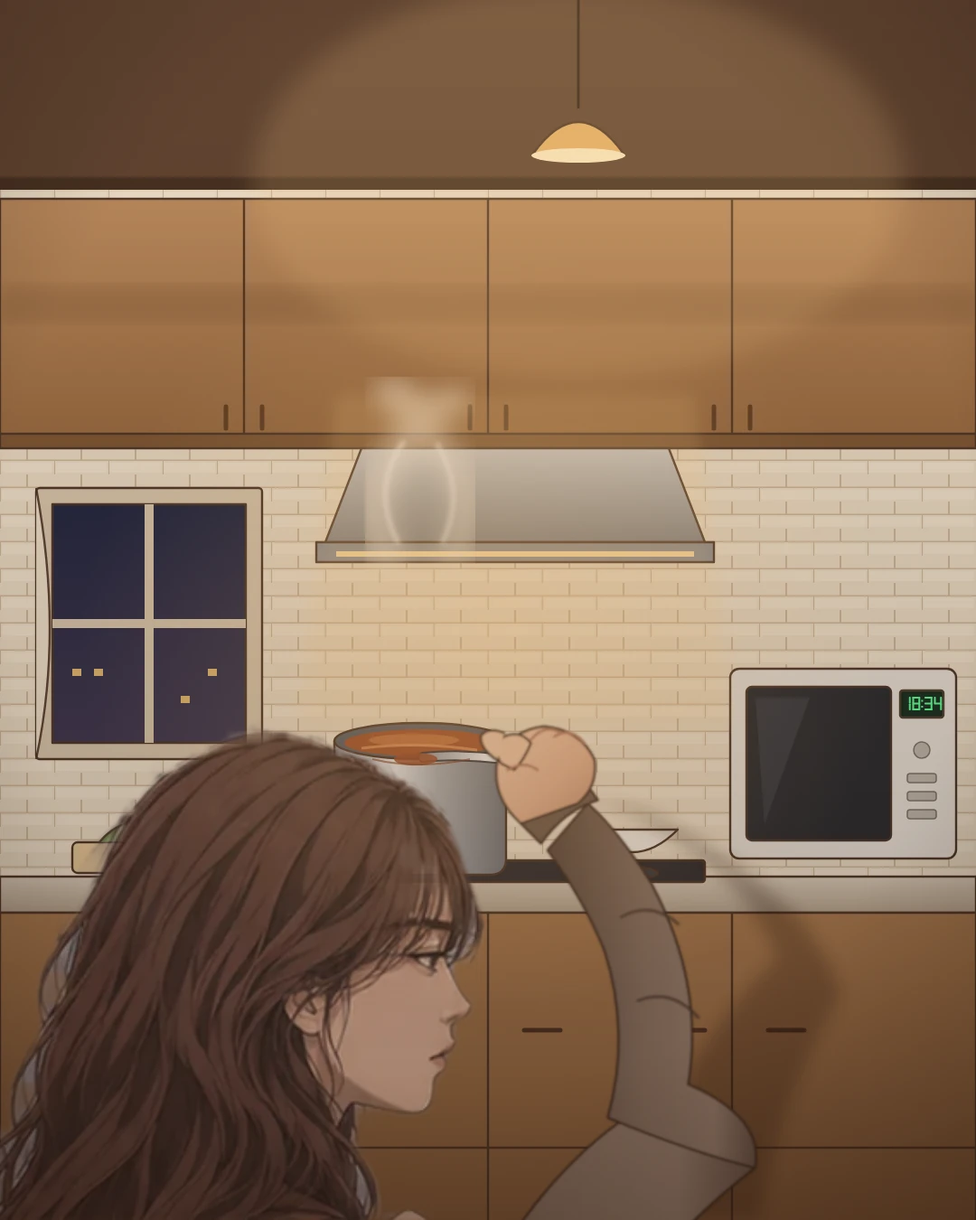
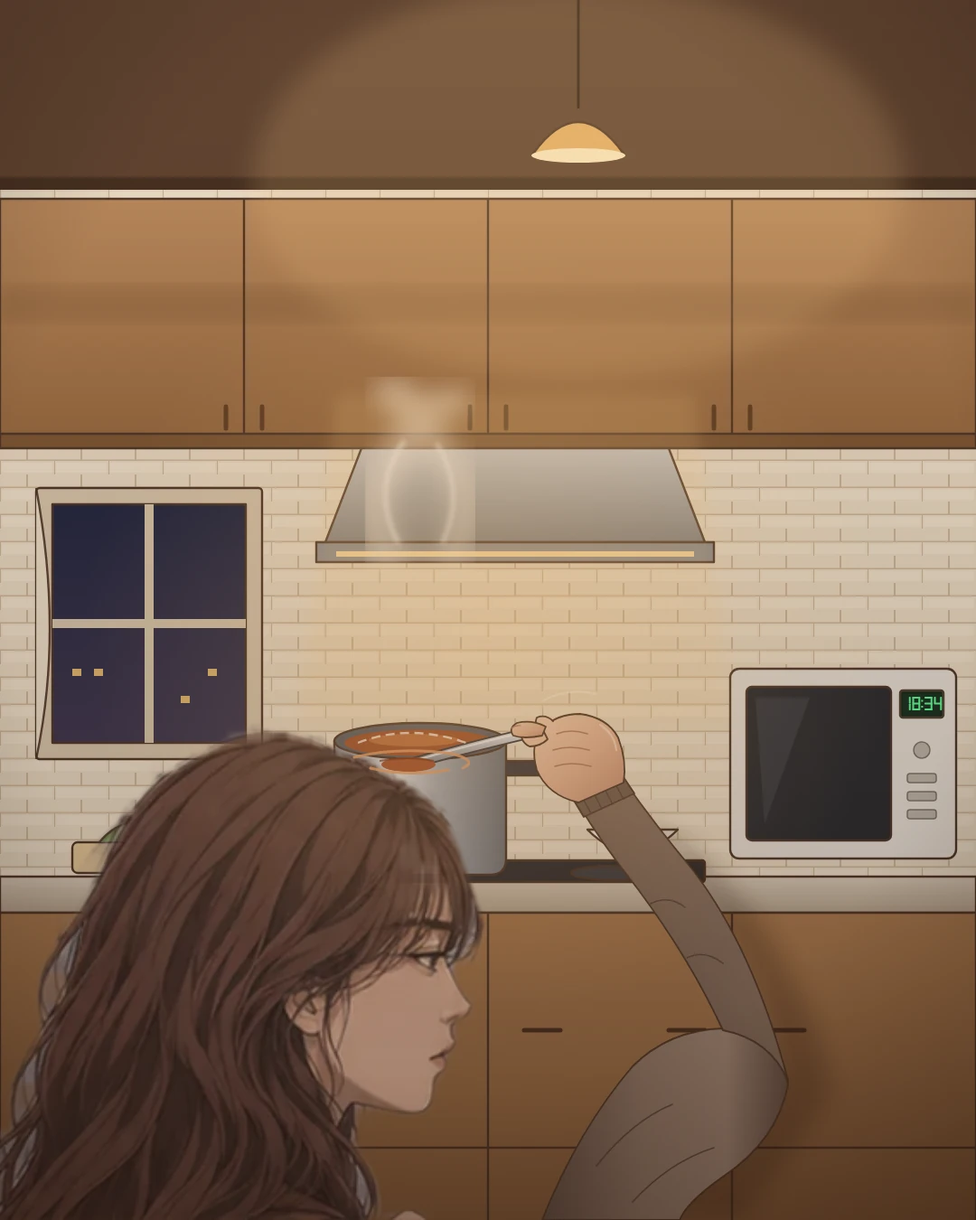
EP01 v3: 마지막 작화 보완 — 10 학생 25명·음악실 요소 제거, 17 질감, 87 몸 연결, 89 팔 재작화
- 10: 짝꿍·앞줄 추가로 학생 25명, 머리 모양·자세 다양화, 악기장→학급 문고, 악기 케이스 제거
- 17: 3/4 측면 시도 후 어울리지 않아 뒷모습 유지, 머리 질감·화이트보드 조명 개선
- 87: 상체·팔을 손 뒤 층으로, 담요 주름·눌린 그림자·밤 톤·질감
- 89: 굽힌 팔꿈치·원근 있는 팔·주먹 쥔 손, 국자가 국물 속, 젓는 결
- 104컷 QA·읽기 검수·70컷 회귀 통과, 상태 문서 갱신

Claude-Session: https://claude.ai/code/session_01GfvQ6zUbcBMZ1yaHVdYYvz

Changed region(s): [[0.3667, 0.5911, 0.7944, 1.0], [0.7944, 0.7467, 0.8556, 0.8089]]

diff --git a/data/ep01v3.js b/data/ep01v3.js
@@ -41,14 +41,14 @@ WEBTOON.registerEpisode({
     {"no": 7, "type": "black", "text": "이틀 전", "desc": "‘이틀 전’", "spacing": {"before": 0, "after": 320}, "mood": "void", "transition": "slow"},
[15 lines of base64/hex data omitted]
@@ -118,9 +118,9 @@ WEBTOON.registerEpisode({
[11 lines of base64/hex data omitted]

diff --git a/tools/art/scenes/cut089.html b/tools/art/scenes/cut089.html
@@ -79,32 +79,48 @@ svg{position:absolute;left:0;top:0}
 <img class="fig" src="parts/seungmin-back-080.png">
 <svg id="arm" width="1080" height="1350" style="position:absolute;left:0;top:0">
 <defs>
- <linearGradient id="slv" x1="0" x2="1"><stop offset="0" stop-color="#5c4a3f"/><stop offset=".45" stop-color="#8a7364"/><stop offset=".8" stop-color="#9c8474"/><stop offset="1" stop-color="#6a564a"/></linearGradient>
- <linearGradient id="skn" x1="0" x2="1" y1="0" y2="1"><stop offset="0" stop-color="#f0c9ae"/><stop offset=".6" stop-color="#e2b090"/><stop offset="1" stop-color="#c58f74"/></linearGradient>
- <linearGradient id="ldl" x1="0" x2="1"><stop offset="0" stop-color="#8d9197"/><stop offset=".5" stop-color="#eef0f2"/><stop offset="1" stop-color="#8d9197"/></linearGradient>
- <filter id="sft"><feGaussianBlur stdDeviation=".7"/></filter><filter id="shd"><feGaussianBlur stdDeviation="9"/></filter>
+ <linearGradient id="slvA" x1="0" x2="1" y1="0" y2="0"><stop offset="0" stop-color="#5a473d"/><stop offset=".4" stop-color="#8a7262"/><stop offset=".75" stop-color="#9d8473"/><stop offset="1" stop-color="#5e4a3f"/></linearGradient>
+ <linearGradient id="slvB" x1="0" x2="1" y1="1" y2="0"><stop offset="0" stop-color="#4e3d34"/><stop offset=".5" stop-color="#7d6657"/><stop offset="1" stop-color="#957d6c"/></linearGradient>
+ <linearGradient id="sknA" x1="0" x2="1" y1="0" y2="1"><stop offset="0" stop-color="#f3cfb4"/><stop offset=".55" stop-color="#e2b092"/><stop offset="1" stop-color="#c48d72"/></linearGradient>
+ <linearGradient id="ldlA" x1="0" x2="0" y1="0" y2="1"><stop offset="0" stop-color="#f2f3f5"/><stop offset=".5" stop-color="#b9bcc2"/><stop offset="1" stop-color="#7d8188"/></linearGradient>
+ <filter id="sftA"><feGaussianBlur stdDeviation=".6"/></filter><filter id="shdA"><feGaussianBlur stdDeviation="12"/></filter>
+ <filter id="grA"><feTurbulence type="fractalNoise" baseFrequency=".9" numOctaves="2" seed="5"/><feColorMatrix values="0 0 0 0 .45  0 0 0 0 .38  0 0 0 0 .33  0 0 0 .14 0"/><feComposite in2="SourceGraphic" operator="in"/></filter>
+ <clipPath id="armc"><path d="M600 1350 Q640 1250 700 1180 Q740 1140 800 1138 Q860 1150 872 1200 Q860 1262 800 1302 Q760 1330 752 1350 Z M800 1140 Q764 1062 706 984 Q668 936 640 890 L692 866 Q726 914 766 962 Q834 1050 872 1196 Z"/></clipPath>
 </defs>
-<!-- 국자: 손잡이 끝은 승민의 손, 머리는 냄비 안 국물 속 -->
-<path d="M468 838 Q530 832 606 848" stroke="#3a3a40" stroke-width="12" stroke-linecap="round" fill="none"/>
-<path d="M468 838 Q530 832 606 848" stroke="url(#ldl)" stroke-width="8" stroke-linecap="round" fill="none"/>
-<ellipse cx="460" cy="840" rx="24" ry="7" fill="#9c4a28" opacity=".85"/>
-<path d="M400 828 Q460 820 528 830" stroke="#e39a62" stroke-width="3" fill="none" opacity=".75"/><path d="M412 840 Q462 852 520 840" stroke="#7d3618" stroke-width="2" fill="none" opacity=".6"/>
-<!-- 팔 그림자(찬장·조리대에) -->
-<path d="M690 1350 Q760 1150 860 1060 Q820 950 650 880 L720 900 Q900 990 930 1100 Q860 1220 840 1350 Z" fill="#2a160c" opacity=".30" filter="url(#shd)"/>
-<g stroke="#3e2c24" stroke-width="1.4" stroke-linejoin="round" stroke-linecap="round" filter="url(#sft)" transform="translate(606 852) scale(1.85) translate(-606 -852)">
- <!-- 위팔: 어깨(머리 오른쪽 아래)에서 팔꿈치까지, 바깥으로 -->
- <path d="M500 1350 Q520 1210 600 1110 Q640 1060 690 1040 L730 1090 Q690 1120 660 1160 Q600 1250 590 1350 Z" fill="url(#slv)"/>
- <path d="M548 1240 Q574 1222 598 1236 M590 1160 Q618 1148 640 1166" fill="none" stroke="#4a3a31" stroke-width="2" opacity=".75"/>
- <!-- 아래팔: 팔꿈치에서 냄비 쪽으로 앞·위로 굽혀 들어감 -->
- <path d="M690 1040 Q700 980 668 920 Q648 888 630 872 L606 900 Q628 930 640 960 Q656 1010 642 1060 Q690 1080 730 1090 Q736 1060 690 1040 Z" fill="url(#slv)"/>
- <path d="M650 940 Q668 930 684 944 M660 990 Q680 982 696 1000" fill="none" stroke="#4a3a31" stroke-width="2" opacity=".75"/>
- <path d="M602 896 Q616 876 636 870 L626 856 Q604 864 590 884 Z" fill="#6f5b4e"/>
- <!-- 손: 국자 손잡이를 감아 쥔 주먹, 손등이 보이고 엄지는 손잡이 위 -->
- <path d="M590 884 Q572 868 576 846 Q584 828 604 826 Q626 828 634 846 Q636 862 624 872 Z" fill="url(#skn)"/>
- <path d="M578 848 Q572 838 580 832 Q590 828 596 836 Q592 846 586 852 Z" fill="#edc4a7"/>
- <path d="M596 834 Q604 824 614 830 M610 832 Q620 826 628 836 M582 852 Q592 846 600 852" fill="none" stroke="#b07a62" stroke-width="1.6"/>
- <path d="M576 846 Q566 840 566 832 Q570 826 580 830" fill="#eec7aa"/>
+<!-- 국자: 냄비 안 국물에 잠긴 머리 → 냄비 가장자리를 넘어 → 손 안의 손잡이 -->
+<path d="M452 846 Q520 826 608 806" stroke="#3a3a40" stroke-width="13" stroke-linecap="round" fill="none"/>
+<path d="M452 846 Q520 826 608 806" stroke="url(#ldlA)" stroke-width="9" stroke-linecap="round" fill="none"/>
+<path d="M454 843 Q520 824 606 804" stroke="#ffffff" stroke-width="2" opacity=".7" fill="none"/>
+<!-- 국자가 잠긴 자리: 국물 표면이 덮고, 젓는 결이 국자 둘레로 돎 -->
+<ellipse cx="452" cy="846" rx="30" ry="8" fill="#a8542e"/>
+<path d="M392 838 Q440 826 500 834 Q530 842 512 850 M410 850 Q452 860 496 852" stroke="#e9a06a" stroke-width="3" fill="none" opacity=".85" stroke-linecap="round"/>
+<path d="M420 842 Q452 836 480 842" stroke="#6e2d14" stroke-width="2" fill="none" opacity=".7"/>
+<!-- 팔 그림자 -->
+<path d="M680 1350 Q760 1200 860 1180 Q840 1060 700 900 L760 930 Q900 1060 920 1210 Q860 1300 820 1350 Z" fill="#2a160c" opacity=".28" filter="url(#shdA)"/>
+<g stroke="#4a3428" stroke-width="1.8" stroke-linejoin="round" stroke-linecap="round" filter="url(#sftA)">
+ <!-- 위팔(카메라 가까이, 어깨에서 팔꿈치로) -->
+ <path d="M600 1350 Q640 1250 700 1180 Q740 1140 800 1138 Q860 1150 872 1200 Q860 1262 800 1302 Q760 1330 752 1350 Z" fill="url(#slvA)"/>
+ <path d="M660 1290 Q700 1240 744 1222 M700 1330 Q740 1286 790 1270" fill="none" stroke="#45362e" stroke-width="1.6" opacity=".8"/>
+ <!-- 아래팔(팔꿈치에서 냄비 쪽으로 위·왼쪽, 원근으로 손목 쪽이 가늘어짐) -->
+ <path d="M800 1140 Q764 1062 706 984 Q668 936 640 890 L692 866 Q726 914 766 962 Q834 1050 872 1196 Q852 1150 800 1140 Z" fill="url(#slvB)"/>
+ <path d="M760 1060 Q780 1050 800 1066 M720 1000 Q740 990 758 1004" fill="none" stroke="#45362e" stroke-width="1.5" opacity=".8"/>
+ <!-- 니트 소맷부리(골지) -->
+ <path d="M634 884 L690 860 L702 878 L646 904 Z" fill="#6c574a"/>
+ <path d="M644 882 L654 900 M656 876 L666 895 M668 871 L678 890 M680 866 L690 884" stroke="#4a3a31" stroke-width="1.4"/>
+ <!-- 손: 국자 손잡이를 위에서 감아 쥔 주먹(손등이 카메라 쪽), 엄지는 손잡이 위로 냄비 쪽을 향함 -->
+ <path d="M640 888 Q606 880 594 852 Q586 824 600 806 Q616 790 642 790 Q672 794 684 816 Q694 842 690 866 Z" fill="url(#sknA)"/>
+ <path d="M600 806 Q584 800 578 808 Q574 820 586 826 Q598 826 606 818 Z" fill="#ecc3a5"/>
+ <path d="M612 798 Q604 790 594 794 Q590 804 598 810" fill="#f0c9ad"/>
+ <path d="M616 812 Q632 806 650 812 M612 830 Q630 824 652 830 M614 848 Q632 842 654 848" fill="none" stroke="#b07a62" stroke-width="1.5"/>
+ <path d="M664 802 Q680 812 682 830" fill="none" stroke="#f8dcc6" stroke-width="2.2" opacity=".8"/>
+ <!-- 엄지: 손잡이 위로 뻗음 -->
+ <path d="M604 804 Q588 796 572 800 Q562 806 568 814 Q580 818 600 814 Z" fill="url(#sknA)"/>
+ <path d="M566 806 Q570 802 576 803" fill="none" stroke="#b07a62" stroke-width="1.2"/>
 </g>
+<!-- 젓는 동작 선(국자 둘레의 원호) -->
+<path d="M396 822 Q452 800 516 822" stroke="#fff3e2" stroke-width="2.4" fill="none" opacity=".8" stroke-dasharray="10 6"/>
+<path d="M600 776 Q628 760 660 768" stroke="#fff3e2" stroke-width="2" fill="none" opacity=".6"/>
+<rect x="560" y="760" width="330" height="590" filter="url(#grA)" clip-path="url(#armc)"/>
 </svg>
 
 <div class="warm"></div>

diff --git a/tools/art/scenes/cut087.html b/tools/art/scenes/cut087.html
@@ -7,32 +7,53 @@ svg{position:absolute;left:0;top:0}
 </style></head><body><div class="cv">
 <img class="bg" src="parts/livingroom-night.png">
 <svg id="back" width="1080" height="608"></svg>
+<svg id="torso" width="1080" height="608"></svg>
 <img class="head" src="parts/seungmin-085-sofa.png">
-<svg id="front" width="1080" height="608"></svg>
+<svg id="front" width="1080" height="608" style="filter:brightness(.74) saturate(.9)"></svg>
 <div class="night"></div>
 </div><script>
 const L='#2e2328';
 document.getElementById('back').innerHTML = `<defs><filter id="s"><feGaussianBlur stdDeviation="10"/></filter></defs>
 <path d="M300 380 Q600 360 990 372 L990 420 Q600 410 300 430Z" fill="#000" opacity=".35" filter="url(#s)"/>
 <path d="M188 300 Q240 262 330 270 Q400 280 418 330 Q420 380 380 404 Q300 418 220 404 Q180 380 188 300 Z" fill="#3d3337" stroke="#2e2328" stroke-width="2"/>
-<path d="M210 306 Q280 286 380 300" stroke="#5a4c50" stroke-width="3" fill="none"/>
-<g stroke="#2e2328" stroke-width="1.8" stroke-linejoin="round"><path d="M396 318 Q440 300 500 312 Q540 330 548 372 Q540 404 500 410 L420 410 Q392 380 396 318 Z" fill="#6a5448"/>
-<path d="M420 330 Q460 322 500 334" fill="none" stroke="#86705f" stroke-width="2.4"/></g>`;
+<path d="M210 306 Q280 286 380 300" stroke="#5a4c50" stroke-width="3" fill="none"/>`;
+// 몸: 원화(85컷) 머리·손과 질감 차이를 줄이려고 셀 채색처럼 2단 그림자 + 스탠드 쪽(왼쪽) 따뜻한 림라이트 + 종이 질감, 가는 갈색 선.
 document.getElementById('front').innerHTML = `<defs>
-<linearGradient id="bl" x1="0" x2="0" y1="0" y2="1"><stop offset="0" stop-color="#9592a4"/><stop offset=".55" stop-color="#6e6c80"/><stop offset="1" stop-color="#47455a"/></linearGradient>
-<linearGradient id="pl" x1="0" x2="0" y1="0" y2="1"><stop offset="0" stop-color="#4a3f44"/><stop offset="1" stop-color="#2c2428"/></linearGradient>
-<filter id="sf"><feGaussianBlur stdDeviation=".7"/></filter><filter id="sh"><feGaussianBlur stdDeviation="6"/></filter></defs>
-<g stroke="${L}" stroke-width="1.8" stroke-linejoin="round" stroke-linecap="round" filter="url(#sf)">
- <g transform="translate(0 34)">
- <!-- 담요: 가슴 아래부터 발끝까지 — 허리·무릎(살짝 굽힘)의 볼륨, 소파 앞으로 늘어진 자락 -->
- <path d="M470 340 Q520 316 600 322 Q690 318 760 330 Q820 300 880 306 Q950 312 978 340 Q992 368 970 392 Q930 404 880 400 L700 410 Q600 418 520 414 Q470 400 470 340 Z" fill="url(#bl)"/>
- <path d="M600 410 Q640 470 700 480 Q760 486 800 470 Q820 440 812 404 Z" fill="#5e5c70"/>
- <path d="M640 416 Q660 452 700 466 M740 414 Q760 444 790 456" fill="none" stroke="#3e3c4e" stroke-width="2"/>
- <path d="M560 340 Q640 352 700 336 M770 318 Q820 330 860 312 M880 316 Q920 334 960 338" fill="none" stroke="#b2afc0" stroke-width="2" opacity=".7"/>
- <path d="M640 334 Q660 372 640 410 M840 312 Q860 350 846 400" fill="none" stroke="#4a4858" stroke-width="2" opacity=".7"/>
+ <linearGradient id="kn" x1="0" x2="0" y1="0" y2="1"><stop offset="0" stop-color="#8a6e5e"/><stop offset=".55" stop-color="#6a5246"/><stop offset="1" stop-color="#4a3830"/></linearGradient>
+ <linearGradient id="bl" x1="0" x2="0" y1="0" y2="1"><stop offset="0" stop-color="#a39fae"/><stop offset=".45" stop-color="#7d7a8c"/><stop offset="1" stop-color="#55526a"/></linearGradient>
+ <linearGradient id="bl2" x1="0" x2="0" y1="0" y2="1"><stop offset="0" stop-color="#6c6a7e"/><stop offset="1" stop-color="#3e3c52"/></linearGradient>
+ <linearGradient id="warm" x1="0" x2="1"><stop offset="0" stop-color="#ffc98a" stop-opacity=".45"/><stop offset=".5" stop-color="#ffc98a" stop-opacity=".12"/><stop offset="1" stop-color="#ffc98a" stop-opacity="0"/></linearGradient>
+ <filter id="sf"><feGaussianBlur stdDeviation=".7"/></filter><filter id="sh"><feGaussianBlur stdDeviation="7"/></filter><filter id="sh2"><feGaussianBlur stdDeviation="3"/></filter>
+ <filter id="grain"><feTurbulence type="fractalNoise" baseFrequency=".85" numOctaves="2" seed="7"/><feColorMatrix values="0 0 0 0 .5  0 0 0 0 .45  0 0 0 0 .45  0 0 0 .16 0"/><feComposite in2="SourceGraphic" operator="in"/></filter>
+ <clipPath id="body"><path id="bp" d="M430 330 Q470 312 540 322 Q610 330 650 334 Q690 312 740 318 Q790 330 820 330 Q850 300 900 306 Q950 316 972 338 Q984 362 966 384 Q930 400 880 404 L640 412 Q540 414 470 410 Q430 392 430 330 Z"/></clipPath>
+</defs>
+<!-- 소파에 눌린 자국: 몸 아래 그림자와 쿠션 주름 -->
+<path d="M440 414 Q700 426 980 404" stroke="#120c0e" stroke-width="16" opacity=".45" filter="url(#sh)" fill="none"/>
+<path d="M520 420 Q560 412 600 422 M760 418 Q800 410 840 420" stroke="#2a2024" stroke-width="2" fill="none" opacity=".6"/>
+<g stroke="#2e2328" stroke-width="1.5" stroke-linejoin="round" stroke-linecap="round" filter="url(#sf)">
+ <!-- 담요: 허리부터 발끝까지, 엉덩이·무릎의 굴곡, 앞으로 흘러내린 자락 -->
+ <path d="M600 334 Q650 318 720 320 Q780 328 816 334 Q852 312 904 314 Q954 320 974 340 Q986 366 966 386 Q930 402 880 406 L640 414 Q604 410 590 380 Q584 352 600 334 Z" fill="url(#bl)"/>
+ <path d="M640 410 L648 452 Q700 446 744 458 Q796 448 852 456 L858 404 Z" fill="url(#bl2)"/>
+ <path d="M690 412 L696 448 M744 410 L744 456 M800 410 L798 452" fill="none" stroke="#2e2c40" stroke-width="1.6"/>
+ <path d="M640 330 Q660 368 646 404 M720 318 Q742 360 724 406 M836 312 Q846 350 830 402 M900 308 Q912 350 898 400" fill="none" stroke="#4a4860" stroke-width="1.6" opacity=".85"/>
+ <path d="M616 340 Q680 326 760 330 M840 314 Q900 310 950 330" fill="none" stroke="#c3c0cf" stroke-width="2" opacity=".75"/>
  <!-- 발(양말) -->
- <path d="M962 330 Q994 316 1008 332 Q1012 354 990 362 Q970 356 962 330 Z" fill="#d8d3cc"/>
- </g>
+ <path d="M962 334 Q990 322 1006 336 Q1010 358 990 366 Q972 360 962 334 Z" fill="#d6d0c8"/>
+ <path d="M970 344 Q988 340 1000 350" fill="none" stroke="#a9a29a" stroke-width="1.2"/>
 </g>
-<path d="M480 446 Q700 454 980 434" stroke="#000" stroke-width="10" opacity=".25" filter="url(#sh)" fill="none"/>`;
+<!-- 스탠드 쪽 따뜻한 림라이트 + 종이 질감 -->
+<path d="M602 333 Q650 318 720 320 Q780 328 816 334 Q852 312 904 314" fill="none" stroke="#ffd6a0" stroke-width="2.4" opacity=".55" filter="url(#sf)"/>
+
+<rect x="400" y="280" width="620" height="220" filter="url(#grain)" clip-path="url(#body)"/>`;
+document.getElementById('torso').innerHTML = `<g stroke="#2e2328" stroke-width="1.5" stroke-linejoin="round" stroke-linecap="round" style="filter:brightness(.74) saturate(.9)">
+ <defs><linearGradient id="kn2" x1="0" x2="0" y1="0" y2="1"><stop offset="0" stop-color="#8a6e5e"/><stop offset=".55" stop-color="#6a5246"/><stop offset="1" stop-color="#4a3830"/></linearGradient></defs>
+`+` <!-- 니트 상체(어깨·가슴) — 머리 아래에서 이어짐 -->
+ <path d="M420 300 Q470 296 520 312 Q590 326 660 336 L660 404 Q560 412 470 410 Q428 392 420 300 Z" fill="url(#kn2)"/>
+ <path d="M470 330 Q520 338 560 334 M480 360 Q540 370 600 362" fill="none" stroke="#3e2e28" stroke-width="1.4" opacity=".8"/>
+<!-- 위팔: 어깨에서 폰 든 손(원화)까지 — 니트 소매 -->
+<g stroke="#2e2328" stroke-width="1.5" stroke-linejoin="round" filter="url(#sf)">
+ <path d="M452 304 Q500 318 512 352 Q516 384 488 398 Q462 400 450 384 Q470 366 466 346 Q458 326 440 318 Z" fill="url(#kn2)"/>
+ <path d="M462 392 Q470 380 486 382" fill="none" stroke="#3e2e28" stroke-width="1.2"/>
+</g>
+</g>`;
 </script></body></html>

diff --git a/tools/art/scenes/cut010.html b/tools/art/scenes/cut010.html
@@ -17,6 +17,16 @@ svg{position:absolute;left:0;top:0}
  <path d="M20 292h56M20 302h48M20 312h52" stroke="#a89a86" stroke-width="1.5"/>
  <circle cx="31" cy="224" r="3" fill="#c0392b"/><circle cx="69" cy="228" r="3" fill="#2f6fb0"/><circle cx="50" cy="284" r="3" fill="#2a8a4a"/>
  <rect x="-4" y="410" width="104" height="10" fill="#8a6a46"/></g></svg>
+<svg width="1080" height="810" style="position:absolute;left:0;top:0">
+ <defs><linearGradient id="wl" x1="0" x2="0" y1="0" y2="1"><stop offset="0" stop-color="#94705f"/><stop offset="1" stop-color="#a27662"/></linearGradient></defs>
+ <rect x="784" y="40" width="296" height="98" fill="url(#wl)"/><rect x="784" y="40" width="296" height="98" fill="url(#wl)" filter="none"/>
+ <g stroke="#5a4232" stroke-width="2">
+  <rect x="770" y="140" width="130" height="190" fill="#b38b62"/><rect x="920" y="140" width="160" height="190" fill="#b38b62"/>
+  <path d="M770 202h130M770 266h130M920 202h160M920 266h160" stroke-width="5"/>
+ </g>
+ <g id="books"></g>
+ <g stroke="#4a3428" stroke-width="2"><rect x="930" y="66" width="120" height="58" fill="#f4efe4"/><path d="M944 80h90M944 92h76M944 104h86" stroke="#b8ad9c"/><circle cx="990" cy="68" r="3" fill="#c0392b"/></g>
+</svg>
 <div id="seats"></div>
 <img class="t" src="parts/seungmin-012-upper.png">
 <svg id="front" width="1080" height="810"></svg>
@@ -35,23 +45,49 @@ document.getElementById('front').innerHTML = `<g stroke="#3a2a22" stroke-width="
  <path d="M600 362 L690 360 L694 372 L598 374 Z" fill="#f1ece2"/><path d="M608 365h70M608 369h52" stroke="#b9b1a4" stroke-width="1.3"/>
 </g>`;
 // 의자 등받이(배경 그림에서 잰 바깥 테두리): [x0, x1, top, 학생 옵션] — 먼 자리부터 그려 가까운 학생이 앞 의자를 가린다
+// [x0, x1, top, 학생 옵션, 짝꿍(같은 책상 옆자리: 'L'|'R', 옵션)] — 먼 자리부터. 짝꿍 의자는 같은 의자 그림을 옆으로 옮겨 다시 쓴다.
+const H = ['#2a2120','#33261f','#231b1a','#3a2b24','#2e2422','#1d1716'];
 const chairs = [
-  [470, 575, 421, {pose:'write'}], [839, 952, 424, {girl:1, tail:1, pose:'listen'}], [90, 186, 418, {girl:1, pose:'turn'}],
-  [426, 552, 450, {pose:'hand'}], [868, 1003, 458, {pose:'turn'}], [0, 108, 441, {pose:'write'}],
-  [374, 522, 489, {girl:1, tail:1, hair:'#3a2a24', pose:'listen'}], [902, 1062, 500, {girl:1, pose:'write', hair:'#2e2422'}],
-  [305, 487, 554, {pose:'cheek'}], [952, 1092, 580, {pose:'listen', tilt:3}],
-  [185, 445, 676, {pose:'cheek', tilt:-6}],
+  [90, 186, 418, {girl:1, hs:'long', pose:'turn', hair:H[1]}, ['R', {hs:'short', pose:'write', part:.05}]],
+  [470, 575, 421, {pose:'write', hs:'short', part:-.06}, ['L', {girl:1, hs:'bob', pose:'look', hair:H[3]}]],
+  [839, 952, 424, {girl:1, tail:1, pose:'listen'}, ['R', {hs:'buzz', pose:'cheek'}]],
+  [0, 108, 441, {pose:'write', hs:'short'}, ['R', {girl:1, hs:'bob', pose:'listen', hair:H[0]}]],
+  [426, 552, 450, {pose:'hand', hs:'short', hair:H[2]}, ['L', {girl:1, hs:'pony', pose:'write', hair:H[4]}]],
+  [868, 1003, 458, {pose:'turn', hs:'short', part:.04}, ['R', {girl:1, hs:'long', pose:'look', hair:H[5]}]],
+  [374, 522, 489, {girl:1, tail:1, hair:'#3a2a24', pose:'listen'}, ['L', {hs:'buzz', pose:'write'}]],
+  [902, 1062, 500, {girl:1, pose:'write', hair:'#2e2422'}, ['L', {hs:'short', pose:'look', part:-.05}]],
+  [305, 487, 554, {pose:'cheek'}, ['R', {girl:1, hs:'bob', pose:'write', hair:H[1]}]],
+  [952, 1092, 580, {pose:'listen', tilt:3, hs:'short'}, ['L', {girl:1, hs:'pony', pose:'look', hair:H[5]}]],
+  [185, 445, 676, {pose:'cheek', tilt:-6}, null],
 ];
 const box = document.getElementById('seats');
-chairs.forEach(([x0, x1, top, o]) => {
+{ // 학급 문고: 책등(색·높이 제각각)
+  let bk = '', sd = 3; const R = () => (sd = (sd * 16807) % 2147483647) / 2147483647;
+  [[774, 896, 146, 200], [774, 896, 208, 264], [774, 896, 272, 328], [924, 1076, 146, 200], [924, 1076, 208, 264], [924, 1076, 272, 328]].forEach(([x0, x1, y0, y1]) => {
+    let x = x0 + 2; while (x < x1 - 6) { const w = 7 + R() * 9, hh = (y1 - y0) * (.7 + R() * .28), c = ['#7a3b2e','#2f4f6f','#c9a24a','#4e6b3a','#8a8a8a','#b45c3c','#e8dcc4'][Math.floor(R() * 7)];
+      bk += `<rect x="${x.toFixed(1)}" y="${(y1 - hh).toFixed(1)}" width="${w.toFixed(1)}" height="${hh.toFixed(1)}" fill="${c}" stroke="#3a2a22" stroke-width="1"/>`; x += w + .8; } });
+  document.getElementById('books').innerHTML = bk;
+}
+function seat(x0, x1, top, o, srcX0) {   // srcX0: 의자 그림을 가져올 원래 위치(짝꿍이면 이웃 의자)
   const w = x1 - x0;
   if (o) box.insertAdjacentHTML('beforeend', `<svg width="1080" height="810">${student((x0 + x1) / 2, top + w * .02, w * .84, o)}</svg>`);
-  const r = w * .16, y1 = top + w * .62, pts = [];
-  for (let k = 0; k <= 8; k++) { const a = Math.PI + k * Math.PI / 16; pts.push([x0 + r + Math.cos(a) * r, top + r + Math.sin(a) * r]); }
-  for (let k = 0; k <= 8; k++) { const a = 1.5 * Math.PI + k * Math.PI / 16; pts.push([x1 - r + Math.cos(a) * r, top + r + Math.sin(a) * r]); }
-  pts.push([x1, y1], [x0, y1]);
+  const sx = srcX0 == null ? x0 : srcX0, r = w * .16, y1 = top + w * .62, pts = [];
+  for (let k = 0; k <= 8; k++) { const a = Math.PI + k * Math.PI / 16; pts.push([sx + r + Math.cos(a) * r, top + r + Math.sin(a) * r]); }
+  for (let k = 0; k <= 8; k++) { const a = 1.5 * Math.PI + k * Math.PI / 16; pts.push([sx + w - r + Math.cos(a) * r, top + r + Math.sin(a) * r]); }
+  pts.push([sx + w, y1], [sx, y1]);
   const im = document.createElement('img'); im.className = 'ov'; im.src = 'parts/classroom-afternoon.png';
   im.style.clipPath = 'polygon(' + pts.map(p => p[0].toFixed(1) + 'px ' + p[1].toFixed(1) + 'px').join(',') + ')';
+  if (srcX0 != null) im.style.transform = `translateX(${(x0 - sx).toFixed(1)}px)`;
   box.appendChild(im);
+}
+let n = 0;
+chairs.forEach(([x0, x1, top, o, mate]) => {
+  const w = x1 - x0;
+  if (mate) { const dx = (mate[0] === 'L' ? -1 : 1) * w * 1.02; seat(x0 + dx, x1 + dx, top, mate[1], x0); n++; }
+  seat(x0, x1, top, o); if (o) n++;
 });
+// 맨 앞(카메라 쪽) 학생 머리·어깨 — 화면 아래로 잘린 뒷모습, 원근으로 크게
+const near = [[60, 846, 250, {hs:'short', pose:'listen', hair:H[0], tilt:-3}], [640, 858, 230, {girl:1, hs:'bob', pose:'look', hair:H[3]}], [900, 852, 220, {hs:'buzz', pose:'listen', tilt:4}], [350, 880, 210, {girl:1, hs:'pony', pose:'write', hair:H[2]}]];
+near.forEach(([cx, top, w, o]) => { box.insertAdjacentHTML('beforeend', `<svg width="1080" height="810" style="filter:blur(1.2px)">${student(cx, top, w, o)}</svg>`); n++; });
+document.title = 'students ' + n;
 </script></body></html>

diff --git a/tools/art/scenes/cut017.html b/tools/art/scenes/cut017.html
@@ -2,13 +2,13 @@
 html,body{margin:0}.cv{position:relative;width:1080px;height:810px;overflow:hidden}
 .bg{position:absolute;inset:0;width:1080px;height:810px}
 svg{position:absolute;left:0;top:0}
-.board{position:absolute;left:250px;top:60px;width:640px;height:370px;box-sizing:border-box;border-radius:5px;background:linear-gradient(160deg,#fbfcfd,#eceff2);border:12px solid #b9bec4;box-shadow:0 8px 20px rgba(40,30,20,.3),inset 0 0 0 2px #8e949b;transform:rotate(-1deg)}
+.board{position:absolute;left:250px;top:60px;width:640px;height:370px;box-sizing:border-box;border-radius:5px;background:linear-gradient(160deg,#fbfcfd,#eceff2);border:12px solid #b9bec4;box-shadow:0 8px 20px rgba(40,30,20,.3),inset 0 0 0 2px #8e949b;transform:rotate(-1deg);overflow:hidden}
 .t{position:absolute;font-family:"Nanum Pen Script";line-height:1;white-space:nowrap}
 .fg{position:absolute;left:-150px;top:470px;width:620px;filter:blur(1.6px) brightness(.8)}
 .warm{position:absolute;inset:0;background:linear-gradient(100deg,rgba(255,214,150,.22),rgba(255,214,150,0) 50%)}
 </style></head><body><div class="cv">
 <img class="bg" src="parts/staffroom-blur.png">
-<div class="board">
+<div class="board"><div style="position:absolute;inset:0;background:linear-gradient(170deg,rgba(255,255,255,.0) 0%,rgba(255,255,255,.55) 8%,rgba(255,255,255,0) 18%),radial-gradient(ellipse 40% 20% at 70% 85%,rgba(140,150,170,.10),rgba(0,0,0,0) 70%),linear-gradient(180deg,rgba(0,0,0,0) 80%,rgba(60,50,40,.08))"></div>
  <span class="t" style="left:30px;top:22px;font-size:64px;color:#1f3f8a">10/31 (토)</span>
  <span class="t" style="left:38px;top:110px;font-size:76px;color:#1a1d24">합창제 리허설</span>
  <span class="t" style="left:120px;top:200px;font-size:86px;color:#c2392f">09:00 강당</span>
@@ -27,7 +27,7 @@ document.getElementById('man').innerHTML = `
  <radialGradient id="hr1" cx=".55" cy=".35" r=".7"><stop offset="0" stop-color="#3d322e"/><stop offset=".7" stop-color="#231c1a"/><stop offset="1" stop-color="#151110"/></radialGradient>
  <linearGradient id="pt1" x1="0" x2="1"><stop offset="0" stop-color="#22252d"/><stop offset=".55" stop-color="#363a45"/><stop offset="1" stop-color="#1f2128"/></linearGradient>
  <pattern id="knit" width="7" height="7" patternUnits="userSpaceOnUse"><path d="M0 3.5h7" stroke="#000" stroke-width="1" opacity=".12"/></pattern>
- <pattern id="buzz" width="4" height="4" patternUnits="userSpaceOnUse"><circle cx="1" cy="1" r=".7" fill="#6b5a52" opacity=".55"/><circle cx="3" cy="3" r=".6" fill="#0d0a09" opacity=".5"/></pattern>
+ <filter id="buzzf"><feTurbulence type="fractalNoise" baseFrequency="1.4" numOctaves="2" seed="9"/><feColorMatrix values="0 0 0 0 .42  0 0 0 0 .35  0 0 0 0 .32  0 0 0 .35 0"/><feComposite in2="SourceGraphic" operator="in"/></filter>
  <filter id="grain"><feTurbulence type="fractalNoise" baseFrequency=".9" numOctaves="2" seed="4"/><feColorMatrix values="0 0 0 0 .5  0 0 0 0 .45  0 0 0 0 .42  0 0 0 .10 0"/><feComposite in2="SourceGraphic" operator="in"/></filter>
  <filter id="sft"><feGaussianBlur stdDeviation=".45"/></filter><filter id="cast"><feGaussianBlur stdDeviation="14"/></filter>
 </defs>
@@ -68,7 +68,7 @@ document.getElementById('man').innerHTML = `
  <!-- 머리: 짧은 스포츠머리 뒤통수(완전한 뒷모습) — 오른쪽으로 살짝 고개를 돌려 귀가 보임 -->
  <path d="M748 318 Q760 336 790 334 Q806 330 812 312 L806 300 Q780 312 754 304 Z" fill="url(#sk1)"/>
  <path d="M742 280 Q738 232 774 218 Q812 216 820 254 Q824 290 810 312 Q790 322 770 320 Q748 314 742 280 Z" fill="url(#hr1)"/>
- <path d="M742 280 Q738 232 774 218 Q812 216 820 254 Q824 290 810 312 Q790 322 770 320 Q748 314 742 280 Z" fill="url(#buzz)" stroke="none"/>
+ <path d="M742 280 Q738 232 774 218 Q812 216 820 254 Q824 290 810 312 Q790 322 770 320 Q748 314 742 280 Z" fill="#000" stroke="none" filter="url(#buzzf)"/>
  <path d="M816 266 Q830 262 832 278 Q832 294 820 300 Q814 288 816 266 Z" fill="url(#sk1)"/><path d="M820 272 Q826 274 826 284" fill="none" stroke="#9d6a55" stroke-width="1.3"/>
  <path d="M738 270 Q736 280 744 290" fill="none" stroke="#d9a68b" stroke-width="2" opacity=".0"/>
  <path d="M752 312 Q776 324 806 314" fill="none" stroke="#141010" stroke-width="1.8"/>

diff --git a/tools/art/scenes/students.js b/tools/art/scenes/students.js
@@ -40,15 +40,21 @@ function student(cx, top, w, o = {}) {
   s += `<path d="M${T(-.07,-.06)} L${T(-.07,-.19)} L${T(.07,-.19)} L${T(.07,-.06)} Z" fill="#c99179"/>`;
   s += `<path d="M${T(-.13,-.07)} L${T(0,.01)} L${T(.13,-.07)} L${T(.1,-.12)} L${T(0,-.06)} L${T(-.1,-.12)} Z" fill="#f6f3f1"/>`;
   // 머리
-  const dy = (pose === 'write' ? .08 : 0), rot = (o.tilt || 0) + (pose === 'cheek' ? 10 : 0) + (pose === 'turn' ? -8 : 0) + (pose === 'stretch' ? -4 : 0);
+  const dy = (pose === 'write' ? .08 : pose === 'look' ? -.03 : 0), rot = (o.tilt || 0) + (pose === 'cheek' ? 10 : 0) + (pose === 'turn' ? -8 : 0) + (pose === 'stretch' ? -4 : 0);
   s += `<g transform="rotate(${rot} ${X(0)} ${Y(-.12)}) translate(0 ${(dy * u).toFixed(1)})">`;
   s += `<ellipse cx="${X(-.19)}" cy="${Y(-.31)}" rx="${(.04 * u).toFixed(1)}" ry="${(.06 * u).toFixed(1)}" fill="url(#${id}k)"/><ellipse cx="${X(.19)}" cy="${Y(-.31)}" rx="${(.04 * u).toFixed(1)}" ry="${(.06 * u).toFixed(1)}" fill="url(#${id}k)"/>`;
   if (pose === 'turn') s += `<path d="M${T(.12,-.36)} Q${T(.25,-.33)} ${T(.22,-.21)} Q${T(.16,-.16)} ${T(.1,-.2)} Z" fill="url(#${id}k)"/>`;
-  if (o.girl) {
-    s += `<path d="M${T(-.215,-.38)} Q${T(-.23,-.63)} ${T(0,-.64)} Q${T(.23,-.63)} ${T(.215,-.38)} L${T(.235,-.1)} Q${T(.1,-.04)} ${T(0,-.06)} Q${T(-.1,-.04)} ${T(-.235,-.1)} Z" fill="url(#${id}h)"/>`;
-    if (o.tail) s += `<path d="M${T(-.05,-.3)} Q${T(-.08,-.02)} ${T(0,.1)} Q${T(.08,-.02)} ${T(.05,-.3)} Z" fill="url(#${id}h)"/><path d="M${T(-.05,-.31)} L${T(.05,-.31)}" stroke="#7b2f3a" stroke-width="${sw * 3}"/>`;
-  } else {
+  const hs = o.hs || (o.girl ? (o.tail ? 'pony' : 'bob') : 'short');
+  if (hs === 'bob' || hs === 'pony' || hs === 'long') {
+    const bot = hs === 'long' ? .14 : -.1;
+    s += `<path d="M${T(-.215,-.38)} Q${T(-.23,-.63)} ${T(0,-.64)} Q${T(.23,-.63)} ${T(.215,-.38)} L${T(.235,bot)} Q${T(.1,bot + .06)} ${T(0,bot + .04)} Q${T(-.1,bot + .06)} ${T(-.235,bot)} Z" fill="url(#${id}h)"/>`;
+    if (hs === 'pony') s += `<path d="M${T(-.05,-.3)} Q${T(-.08,-.02)} ${T(0,.1)} Q${T(.08,-.02)} ${T(.05,-.3)} Z" fill="url(#${id}h)"/><path d="M${T(-.05,-.31)} L${T(.05,-.31)}" stroke="#7b2f3a" stroke-width="${sw * 3}"/>`;
+    if (hs === 'long') s += `<path d="M${T(-.12,-.1)} Q${T(-.1,.06)} ${T(-.13,.13)} M${T(.1,-.1)} Q${T(.12,.06)} ${T(.1,.13)}" fill="none" stroke="#6b5650" stroke-width="${sw}"/>`;
+  } else if (hs === 'buzz') {
+    s += `<path d="M${T(-.2,-.34)} Q${T(-.22,-.6)} ${T(0,-.6)} Q${T(.22,-.6)} ${T(.2,-.34)} Q${T(.18,-.22)} ${T(.1,-.2)} L${T(-.1,-.2)} Q${T(-.18,-.22)} ${T(-.2,-.34)} Z" fill="#4a3b36"/><path d="M${T(-.1,-.2)} L${T(.1,-.2)} L${T(.09,-.16)} L${T(-.09,-.16)} Z" fill="url(#${id}k)"/>`;
+  } else {   // short (남학생 기본) — 뒤통수 가르마 변형
     s += `<path d="M${T(-.205,-.33)} Q${T(-.225,-.61)} ${T(0,-.62)} Q${T(.225,-.61)} ${T(.205,-.33)} Q${T(.19,-.19)} ${T(.1,-.16)} L${T(-.1,-.16)} Q${T(-.19,-.19)} ${T(-.205,-.33)} Z" fill="url(#${id}h)"/>`;
+    if (o.part) s += `<path d="M${T(o.part,-.62)} Q${T(o.part * 1.2,-.5)} ${T(o.part,-.4)}" fill="none" stroke="#7d6862" stroke-width="${sw * 1.3}"/>`;
   }
   s += `<path d="M${T(-.13,-.54)} Q${T(-.02,-.59)} ${T(.11,-.52)} M${T(-.16,-.45)} Q${T(-.11,-.33)} ${T(-.13,-.22)} M${T(-.05,-.51)} Q${T(-.03,-.36)} ${T(-.05,-.2)} M${T(.06,-.49)} Q${T(.1,-.35)} ${T(.08,-.21)} M${T(.15,-.43)} Q${T(.18,-.32)} ${T(.15,-.22)}" fill="none" stroke="#6b5650" stroke-width="${sw * .9}" opacity=".85"/>`;
   s += `<path d="M${T(-.1,-.57)} Q${T(0,-.61)} ${T(.09,-.56)}" fill="none" stroke="#a08880" stroke-width="${sw * 1.8}" opacity=".55"/>`;

diff --git a/docs/EP01_V3_STATUS.md b/docs/EP01_V3_STATUS.md
@@ -4,7 +4,25 @@
 - 출처: EP01_104컷_제작기준_v2.md (번호·형태·대사·시각). 콘티 원본은 내부 정본이라 저장소에 넣지 않았다.
 
 
-## ✅ EP01 최종 원화 보완 (2026-11-18, 기준 d1e9e42) — 현재 최종 상태
+## ✅ EP01 마지막 작화 보완 (2026-11-18, 기준 ae67adf) — 1화 최종 상태
+지정된 4컷(10·17·87·89)만 손봤다. 다른 컷 원화·말풍선, 대사·날짜·시각·컷 순서 변경 없음. 외부 이미지 생성 없음. 이후 원화 개선은 자동으로 시작하지 않는다. 스크린샷 `docs/qa/ep01v3/screenshots/final-art-20261118c/`.
+
+| 컷 | 결과 | 내용 |
+|---|---|---|
+| 10 | **수정함** | 학생 **25명**(같은 책상 짝꿍 9명 추가 + 카메라 쪽 앞줄 4명, 원근으로 크기·흐림 차등). 머리 모양 5종(짧은 머리·가르마·스포츠·단발·포니테일·긴 머리)과 머리색 6종, 자세 7종(필기·턱 괴기·교사 바라보기·손들기·옆 보기·듣기) — 같은 그림 복제가 아니라 학생마다 매개변수를 달리해 그림. 짝꿍 의자는 배경의 같은 의자 그림을 옆으로 옮겨 씀. **음악실 요소 제거**: 악기장 → 학급 문고 책장, 악기 케이스 → 벽·게시물, 피아노 → 게시판(이전 작업). 교탁 옆 승민·칠판 三人成虎·대사 유지 |
+| 17 | **부분 수정** | 3/4 측면(뺨선이 보이는 구도)을 시도했으나 다른 원화와 어울리지 않아(가면처럼 보임) **지시대로 뒷모습 유지**. 스포츠머리 질감을 점 무늬에서 자연스러운 노이즈 결로 바꾸고, 화이트보드에 형광등 반사·아래 그림자를 더함. 얼굴은 여전히 보이지 않음 |
+| 87 | **수정함** | 거실 구도 유지. 니트 상체·위팔을 머리·손(원화) **뒤** 층으로 옮겨 손과 휴대폰이 몸 위에 놓이도록 연결, 담요는 엉덩이·무릎 굴곡과 앞으로 흘러내린 자락(직선 단), 소파에 눌린 그림자·쿠션 주름, 몸 전체에 밤 조명 톤(밝기·채도 낮춤)·스탠드 쪽 림라이트·종이 질감을 입혀 원화 머리와의 차이를 줄임 |
+| 89 | **수정함** | 팔을 처음부터 다시 그림: 카메라 가까운 위팔 → 굽힌 팔꿈치 → 원근으로 가늘어지는 아래팔 → 니트 골지 소맷부리 → 국자 손잡이를 감아 쥔 주먹·엄지. 국자 머리가 냄비 국물 속에 잠기고, 둘레로 도는 국물 결·젓는 원호로 동작을 표시. 부엌·18:34·가스불·김·조명 유지 |
+
+**남은 한계(솔직한 평가)**
+- 17: 최기훈은 얼굴이 보이지 않는 뒷모습이며, 벡터 인물이라 회화풍 원화보다 평면적이다(원화가 없는 인물이라 얼굴을 만들지 않음).
+- 87·89: 몸·팔은 벡터 그림이라 원화에서 가져온 얼굴·머리와 질감 차이가 남아 있다(줄였지만 없지는 않음).
+- 10: 학생은 모두 뒷모습이며 단순화된 그림이다. 320px 에서 승민의 두 말풍선이 학생들 위를 덮는다(얼굴·승민·칠판은 덮지 않음).
+- 이 차이를 없애려면 실제 일러스트 작업이 필요하다.
+
+**최종 검수(실제 실행)**: 104컷 이미지 연결 누락 0. 4컷 실제 렌더링 320·768 확인. 104컷 QA 320·360·390·430·768 FAIL 0 / WARN 0. 처음~끝 읽기(320·360·390·430): 컷 104개·순서, 로드 실패 0, 임시 면 0, 가로 스크롤 없음, 말풍선 겹침 0, 말풍선 밖 글자 0, 13px 미만 0, 대사 누락 0, 콘솔 오류 0. 회차 이동 정상. 70컷 회귀 FAIL 0 / WARN 11(변화 없음).
+
+## (이전) EP01 최종 원화 보완 (2026-11-18, 기준 d1e9e42)
 지정된 6개 항목만 보완했다. 외부 이미지 생성 없음, 기존 원화 수정 없음(읽기만), 대사·날짜·시각·컷 순서 변경 없음. 스크린샷 `docs/qa/ep01v3/screenshots/final-art-20261118b/`(320·768).
 
 | 컷 | 보완 | 방식 |
